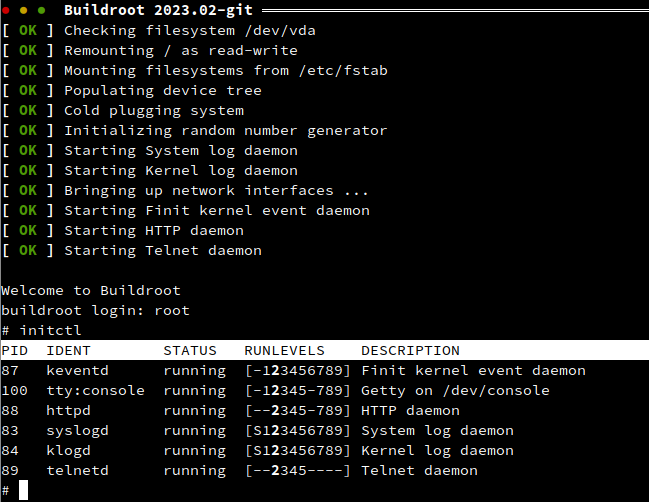
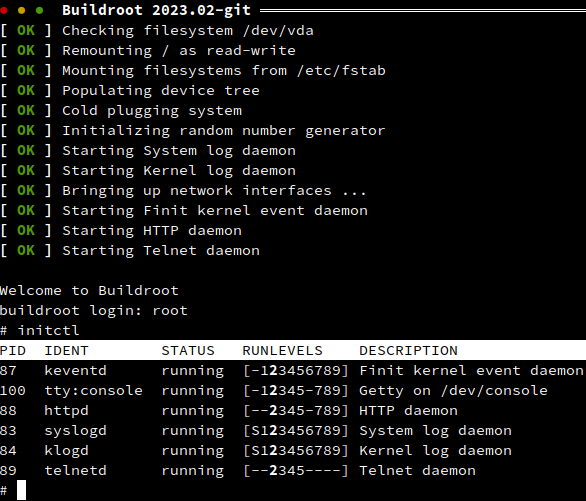
Revise introduction and slim down screenshot a bit

Changed region(s): [[0.0, 0.0, 0.6758, 0.5389], [0.0, 0.5689, 1.0, 1.0]]

diff --git a/README.md b/README.md
@@ -4,16 +4,19 @@ Buildroot Demo with Fast Init
 <img align="right" src="screenshot.png" alt="Finit starting up Buildroot">
 
 This is an example of how [Finit][1] can be used with Buildroot instead
-of the default BusyBox init, or systemd.
+of the default BusyBox init, or systemd.  Notice the use of an external,
+`br2-ext-finit`, providing the necessary packages and root skeleton with
+a wide range of service configurations.
 
-The provided defconfig builds a Qemu bootable kernel and root filesystem
-(ext4) built around BusyBox.  With the following changes to its default
-configuration:
+The provided `configs/qemu_x86_64_finit_defconfig` is the standard Qemu
+defconfig from Buildroot with Finit enabled as the default system init.
+The kernel targets only a Qemu machine and the root filesystem (ext4) is
+built around BusyBox, with the following changes:
 
  - Disable BusyBox init
  - Disable BusyBox poweroff/halt/reboot commands (for init)
  - Enable mount helpers (for fstab tricks later)
- - Enable a few services: httpd, ntpd, udhcpd, dnsd, ...
+ - Enable a few services: `httpd`, `ntpd`, `udhcpd`, `dnsd`, `telnetd`, ...
 
 The rest of this tree is just glue to fit in with the Buildroot external
 concept, as [described in the excellent manual][2].
